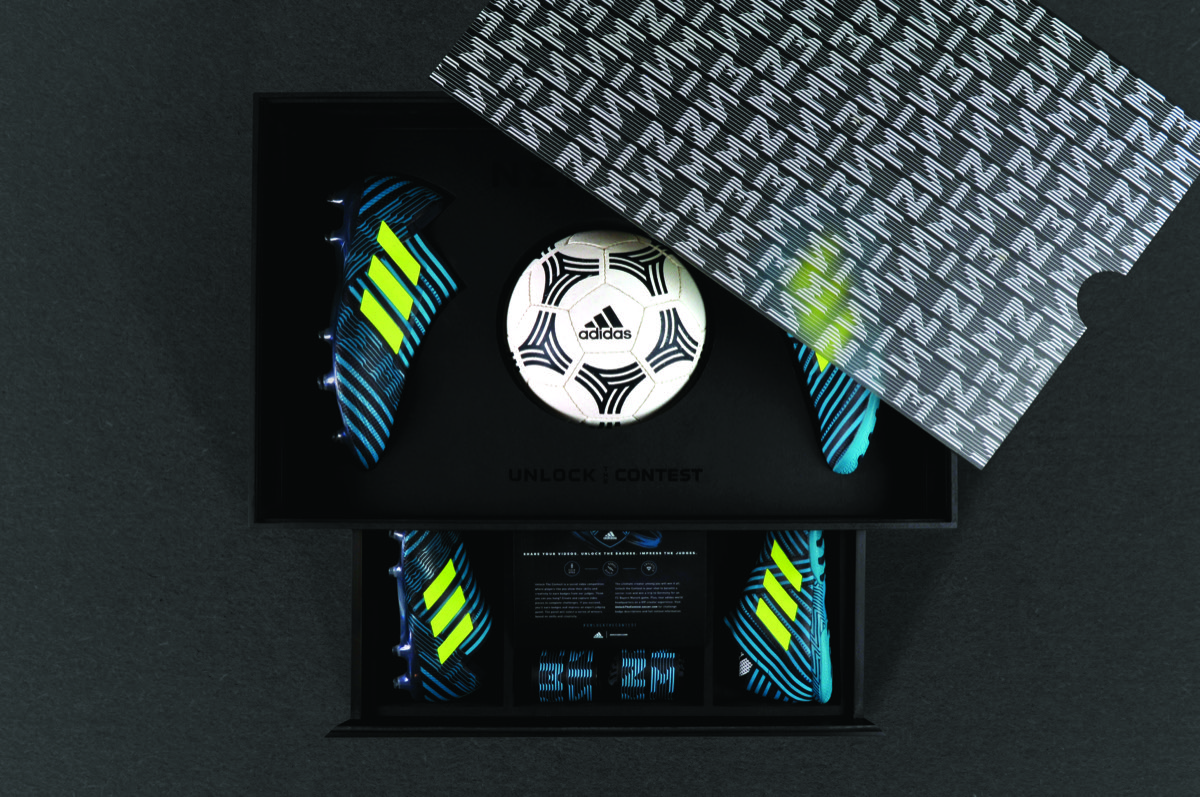
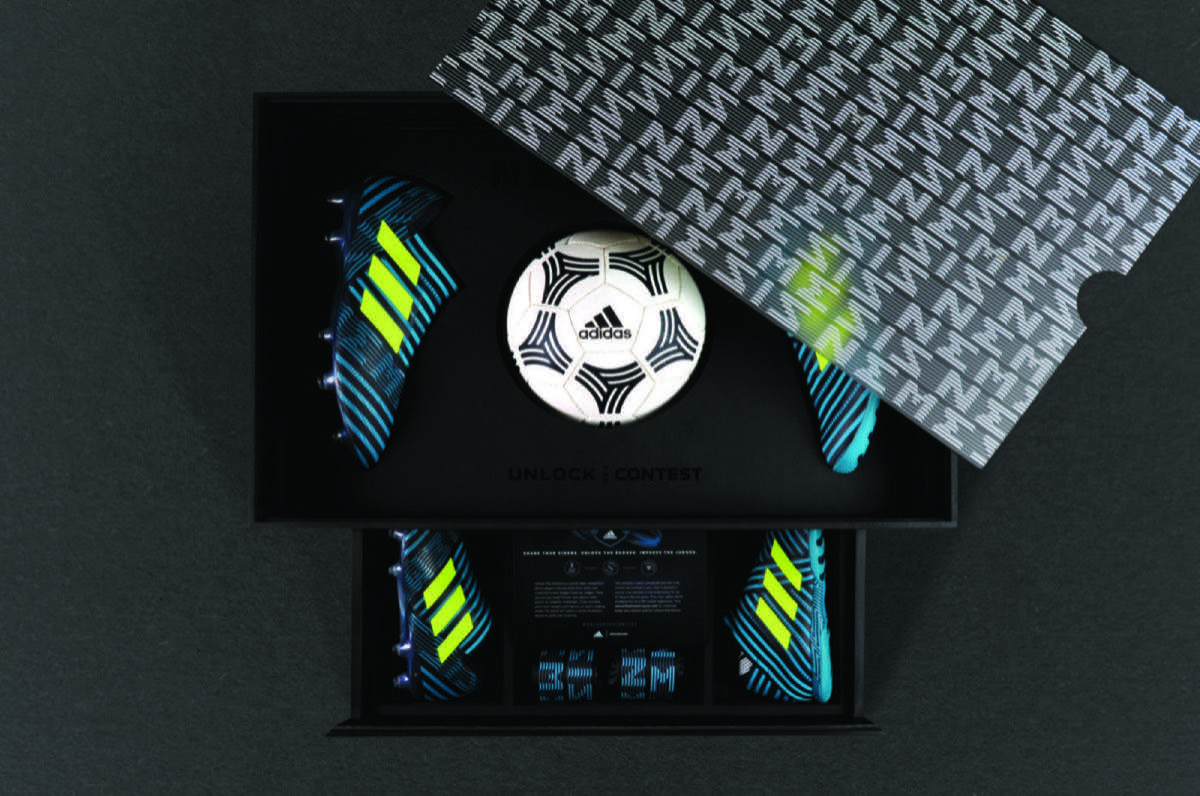
Add robots.txt, OG images for all blog posts, compress oversized images
- robots.ts: explicit allow rules + sitemap directive for crawlers
- OG images: all 33 blog posts now have images in openGraph metadata
  (uses blog-data image field per post for social sharing previews)
- Image compression: artilect/seeding-kits.jpg 7.7MB→669KB,
  influencer-kits.jpg 1.4MB→607KB, influencer-adidas-nemesis.jpg
  1.3MB→954KB
- Sitemap verified: 54 URLs (14 static + 7 guides + 33 blog posts)

diff --git a/app/robots.ts b/app/robots.ts
@@ -1,0 +1,14 @@
+import type { MetadataRoute } from 'next'
+
+export default function robots(): MetadataRoute.Robots {
+  return {
+    rules: [
+      {
+        userAgent: '*',
+        allow: '/',
+        disallow: ['/api/', '/_next/'],
+      },
+    ],
+    sitemap: 'https://logic-pac.com/sitemap.xml',
+  }
+}

diff --git a/app/blog/jewelry-packaging-retail-vs-dtc/page.tsx b/app/blog/jewelry-packaging-retail-vs-dtc/page.tsx
@@ -12,6 +12,7 @@ export const metadata: Metadata = {
     type: 'article',
     publishedTime: '2026-05-21',
     authors: ['Jordan Harper'],
+    images: [{ url: '/images/portfolio/jewelry/oak-park-jewelry-collection.jpg', width: 1200, height: 630 }],
   },
 }
 

diff --git a/app/blog/sustainable-jewelry-packaging/page.tsx b/app/blog/sustainable-jewelry-packaging/page.tsx
@@ -12,6 +12,7 @@ export const metadata: Metadata = {
     type: 'article',
     publishedTime: '2026-05-21',
     authors: ['Jordan Harper'],
+    images: [{ url: '/images/portfolio/jewelry/made-by-mary-collection.jpg', width: 1200, height: 630 }],
   },
 }
 

diff --git a/app/blog/custom-packaging-development-process/page.tsx b/app/blog/custom-packaging-development-process/page.tsx
@@ -12,6 +12,7 @@ export const metadata: Metadata = {
     type: 'article',
     publishedTime: '2026-05-21',
     authors: ['Jordan Harper'],
+    images: [{ url: '/images/portfolio/velvet-interior-unboxing-kit.jpeg', width: 1200, height: 630 }],
   },
 }
 

diff --git a/app/blog/luxury-beauty-packaging-guide/page.tsx b/app/blog/luxury-beauty-packaging-guide/page.tsx
@@ -12,6 +12,7 @@ export const metadata: Metadata = {
     type: 'article',
     publishedTime: '2026-05-21',
     authors: ['Jordan Harper'],
+    images: [{ url: '/images/portfolio/velvet-interior-unboxing-kit.jpeg', width: 1200, height: 630 }],
   },
 }
 

diff --git a/app/blog/sustainable-beauty-packaging-sb54/page.tsx b/app/blog/sustainable-beauty-packaging-sb54/page.tsx
@@ -12,6 +12,7 @@ export const metadata: Metadata = {
     type: 'article',
     publishedTime: '2026-05-21',
     authors: ['Jordan Harper'],
+    images: [{ url: '/images/portfolio/velvet-interior-unboxing-kit.jpeg', width: 1200, height: 630 }],
   },
 }
 

diff --git a/app/blog/custom-jewelry-packaging-cost/page.tsx b/app/blog/custom-jewelry-packaging-cost/page.tsx
@@ -12,6 +12,7 @@ export const metadata: Metadata = {
     type: 'article',
     publishedTime: '2026-05-21',
     authors: ['Jordan Harper'],
+    images: [{ url: '/images/portfolio/jewelry/olive-ave-ring-boxes.jpg', width: 1200, height: 630 }],
   },
 }
 

diff --git a/app/blog/jewelry-packaging-design-guide/page.tsx b/app/blog/jewelry-packaging-design-guide/page.tsx
@@ -12,6 +12,7 @@ export const metadata: Metadata = {
     type: 'article',
     publishedTime: '2026-05-21',
     authors: ['Jordan Harper'],
+    images: [{ url: '/images/portfolio/jewelry/maor-jewelry-boxes.jpg', width: 1200, height: 630 }],
   },
 }
 

diff --git a/app/blog/skincare-packaging-design-guide/page.tsx b/app/blog/skincare-packaging-design-guide/page.tsx
@@ -12,6 +12,7 @@ export const metadata: Metadata = {
     type: 'article',
     publishedTime: '2026-05-21',
     authors: ['Jordan Harper'],
+    images: [{ url: '/images/portfolio/holiday-epicutis-gift-sets.jpg', width: 1200, height: 630 }],
   },
 }
 

diff --git a/app/blog/unboxing-experience-design-guide/page.tsx b/app/blog/unboxing-experience-design-guide/page.tsx
@@ -12,6 +12,7 @@ export const metadata: Metadata = {
     type: 'article',
     publishedTime: '2026-05-21',
     authors: ['Jordan Harper'],
+    images: [{ url: '/images/portfolio/holiday-epicutis-gift-sets.jpg', width: 1200, height: 630 }],
   },
 }
 

diff --git a/app/blog/custom-packaging-moq-guide/page.tsx b/app/blog/custom-packaging-moq-guide/page.tsx
@@ -12,6 +12,7 @@ export const metadata: Metadata = {
     type: 'article',
     publishedTime: '2026-05-21',
     authors: ['Jordan Harper'],
+    images: [{ url: '/images/portfolio/cosmetics-folding-carton.jpeg', width: 1200, height: 630 }],
   },
 }
 

diff --git a/app/blog/eu-ppwr-packaging-requirements-beauty/page.tsx b/app/blog/eu-ppwr-packaging-requirements-beauty/page.tsx
@@ -12,6 +12,7 @@ export const metadata: Metadata = {
     type: 'article',
     publishedTime: '2026-05-21',
     authors: ['Jordan Harper'],
+    images: [{ url: '/images/portfolio/shelf-ready-display-unit.jpeg', width: 1200, height: 630 }],
   },
 }
 
